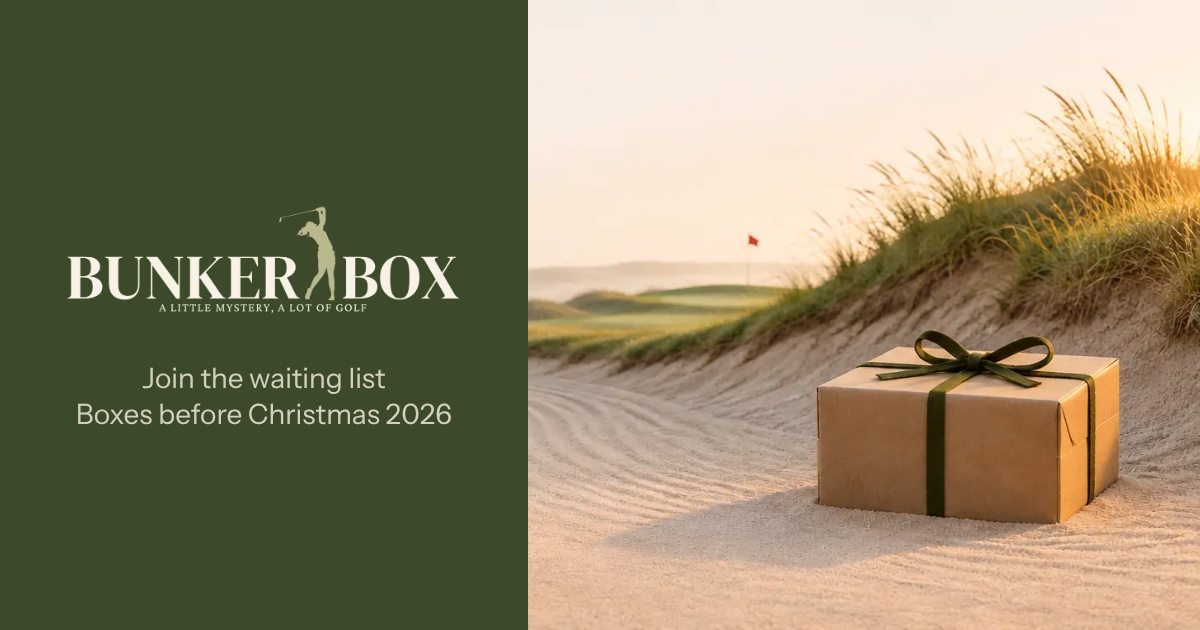
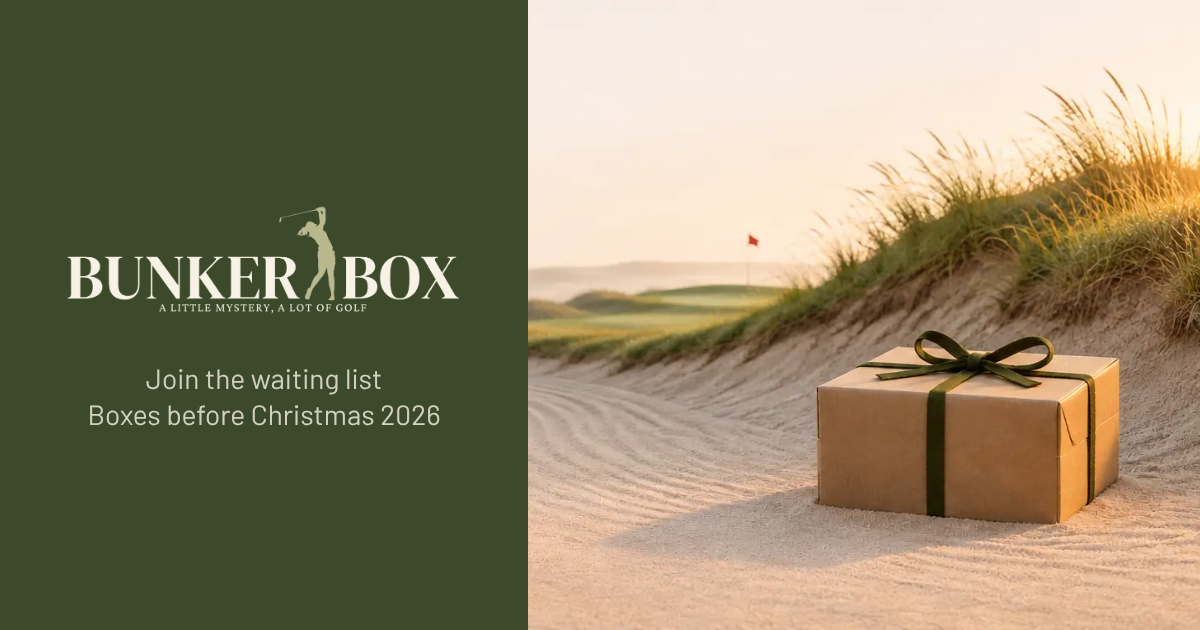
Render the share image in Barlow and finish the font notes in DESIGN.md
Claude-Session: https://claude.ai/code/session_01RpBsVDzPJNUUTeKGM881Tj

Changed region(s): [[0.0617, 0.573, 0.37, 0.6937]]

diff --git a/DESIGN.md b/DESIGN.md
@@ -240,7 +240,7 @@ Process: the page was redesigned with the unslop skill (by Damir Sokolovsky, @he
 - **Header band:** olive, 72px tall, logo left, a ghost "Join the waiting list" link right (cream text, cream hairline border, 40px tall, 44px on phones).
 - **Hero scene:** `images/hero.webp` (1344x752) with `images/hero-phone.webp` (690x752) below 600px, in a `<picture>` with `fetchpriority="high"` and a descriptive alt. The headline "Put your name on a box" and the subline sit on the calm sky; the photo is never covered by a scrim or tint.
 - **Packing slip (signup card):** the card with id `board`, max 760px wide. A "Ship to" header with the count line ("N names on the list", shown only from 5 names) on the right, a dashed tear line, then first name, email and "How often do you play?" in a `1fr 1.25fr 1.2fr` grid, then the consent checkbox beside the primary button. Field labels sit above the fields. The honeypot is off-screen.
-- **Joined state:** the form is replaced by the queue-number marker (the large marker holding the number, or "In" when there is none), the visitor's first name in Instrument Serif, "Number N on the waiting list" in muted text, a confirmation line and a secondary "Send to a golf mate" button.
+- **Joined state:** the form is replaced by the queue-number marker (the large marker holding the number, or "In" when there is none), the visitor's first name in Big Shoulders, "Number N on the waiting list" in muted text, a confirmation line and a secondary "Send to a golf mate" button.
 - **Ball marker (signature):** a small flat olive disc with a cream numeral and a thin sage inner ring, like a golf ball marker. It appears in exactly two places: as the "?" on the surprise line of the contents list, and as the large marker holding the queue number in the joined state. Nowhere else.
 - **Contents list ("What's in the box"):** a card holding a table with a muted header row, ticks for golf balls and tees and accessories, and the "?" marker on the surprise line. On phones each row becomes a grid: icon left, item title, then its description.
 - **Primary button:** olive, cream text, 48px tall, with a trailing arrow. Hover olive-deep on hover-capable fine pointers only; press scales to 0.98.
@@ -266,7 +266,7 @@ Process: the page was redesigned with the unslop skill (by Damir Sokolovsky, @he
 
 - **Hero:** `images/hero.webp` (1344x752) and `images/hero-phone.webp` (690x752) are a Higgsfield-generated scene saved in the repo: a closed kraft box tied with olive ribbon in a raked links bunker at first light, marram grass on the bank, haar over the dunes, a red flag on a distant green, and a calm pale sky in the upper left for the headline. To regenerate, generate the same scene again with Higgsfield, keep the olive ribbon and the empty sky, export a wide desktop crop and a tighter phone crop with the box centred as WebP under the same names, and update the `width` and `height` attributes in `index.html` if the sizes change.
 - **Favicon and touch icon:** `favicon-32.png` (32x32) and `apple-touch-icon.png` (180x180) are the sage golfer cut from the logo, centred on a flat olive square. Regenerate them from `images/logo-square.png` when the logo changes.
-- **Share image:** `og.png` (1200x630) is a 528px olive panel on the left holding `images/logo.png` (in a 408x120 box) above two centred lines in Instrument Sans 400 28/36px, cream at 80%: "Join the waiting list" and "Boxes before Christmas 2026". The right 672px shows `images/hero.webp` scaled to 630px tall and aligned right so the box sits right of centre. It is rendered from an HTML template with Playwright at 1200x630 and device scale 1, waiting for the fonts and images to decode before the screenshot. Regenerate it the same way when the logo, the hero or the launch wording changes.
+- **Share image:** `og.png` (1200x630) is a 528px olive panel on the left holding `images/logo.png` (in a 408x120 box) above two centred lines in Barlow 400 28/36px, cream at 80%: "Join the waiting list" and "Boxes before Christmas 2026". The right 672px shows `images/hero.webp` scaled to 630px tall and aligned right so the box sits right of centre. It is rendered from an HTML template with Playwright at 1200x630 and device scale 1, waiting for the fonts and images to decode before the screenshot. Regenerate it the same way when the logo, the hero or the launch wording changes.
 
 ## Do's and Don'ts
 
